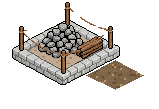
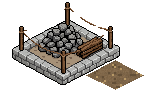
G1: no brightening for the Pixen buildings (owner's request)
Claude-Session: https://claude.ai/code/session_01Ves32FV77dAnaC74UCtajx

Changed region(s): [[0.0755, 0.0275, 0.7547, 0.7706], [0.5031, 0.1376, 0.6038, 0.2477], [0.5535, 0.2752, 0.5786, 0.3028]]

diff --git a/tools/build_pixellab_buildings.py b/tools/build_pixellab_buildings.py
@@ -2,8 +2,7 @@
 """Builds the game art of the buildings drawn by PixelLab (G1, ART_SPEC §10.12) from the raw
 PixelLab images kept in tools/pixellab_src/buildings/<id>/ (not imported by Godot).
 
-Every image goes through tools/fit_pixellab_building.py: brightened (owner's "medium"
-level), placed on its footprint with the pivot in the front corner, the production yard
+Every image goes through tools/fit_pixellab_building.py: placed on its footprint with the pivot in the front corner, the production yard
 drawn under it. A construction stage or the back of a house is an edit of its finished
 building on the same canvas, so it takes the finished building's placement (--like).
 
@@ -17,6 +16,9 @@ ROOT = os.path.dirname(os.path.dirname(os.path.abspath(__file__)))
 SRC = os.path.join(ROOT, "tools", "pixellab_src", "buildings")
 OUT = os.path.join(ROOT, "assets", "buildings")
 FIT = os.path.join(ROOT, "tools", "fit_pixellab_building.py")
+# Pixen art is as bright as the code-drawn buildings: the owner turned the brightening of the
+# trial (tools/brighten_pixellab.py, made for the darker Pro Flash) off on 2026-11-07.
+COMMON = ["--no-brighten"]
 
 # Building id -> (fit options shared by all its images, {art name: raw image it is made of}).
 # The first raw named in each group is the finished building the others line up with.
@@ -66,7 +68,7 @@ def main():
             continue
         for name, raw, extra in images:
             args = [sys.executable, FIT, os.path.join(SRC, building, raw + ".png"),
-                    os.path.join(OUT, building, name)] + opts
+                    os.path.join(OUT, building, name)] + opts + COMMON
             if "like" in extra:
                 args.append("--like=" + os.path.join(SRC, building, extra["like"] + ".png"))
             subprocess.run(args, check=True)

diff --git a/docs/ART_SPEC.md b/docs/ART_SPEC.md
@@ -479,7 +479,7 @@ Przepływ pracy dla kolejnych partii budynków z PixelLab:
 - **Narzędzie:** `create_image_pixen` (1 generacja), `no_background`, `view: high top-down`, `direction: south-east`, `detail: highly detailed`, `outline: selective outline`. Płótno: 152×152 dla budynku 2×2 (wychodzi ok. 120–130 px szerokości), 120×120 dla wąskiej chaty warsztatu (2 tylne kafle), 32–96 dla drobnych elementów. Kilka ziaren (`seed`) i wybór najlepszego.
 - **Opis:** zaczyna się od „isometric … 2:1 isometric view from above, two walls visible”, potem materiały, na końcu „warm earthy colors, no ground, no shadow”. **Drzwi:** dom „the wooden front door is in the gable wall facing the lower right”, wąski warsztat „the long side wall with the wooden door faces the lower right, the narrow gable end faces the lower left” (orientacja 0: drzwi na ścianie +x, §7). Pixen lubi dorysować płytę ziemi albo trawy: wtedy „the building stands directly on a transparent background, no ground tile, no grass, no terrain block”.
 - **Przeróbki:** `edit_image_pixen` (1 generacja) na adresie gotowego obrazka. Etap 1: „remove the whole … completely, … only a flat low grey stone foundation outline … wooden stakes with a string, a pile of logs and a stack of planks”. Etap 2: „half-built … bare roof rafters …, scaffolding and a ladder”. Tył domu: „remove the door from the gable wall on the right and fill it with the same …, add a small window there instead”. Mniejszy rozmiar elementu: przeróbka z `width`/`height` mniejszymi od wejścia (model rysuje od nowa, nie skaluje).
-- **Do gry:** surowe obrazki w `tools/pixellab_src/buildings/<id>/<nazwa>.png`, lista w `tools/build_pixellab_buildings.py`, a `tools/fit_pixellab_building.py` rozjaśnia (§10.11, poziom średni), usuwa okruchy pikseli, ustawia budynek na kratkach (środek obrazka nad środkiem obrysu, najniższy piksel 4 px nad przednim rogiem), dorysowuje podwórko warsztatu i zapisuje `<nazwa>.png` z `.json` (pivot w przednim rogu). Etap budowy i tył biorą przesunięcie gotowego budynku (`--like`), więc leżą dokładnie na nim.
+- **Do gry:** surowe obrazki w `tools/pixellab_src/buildings/<id>/<nazwa>.png`, lista w `tools/build_pixellab_buildings.py`, a `tools/fit_pixellab_building.py` usuwa okruchy pikseli (rozjaśnienie z §10.11 wyłączone dla Pixena, decyzja właściciela 2026-11-07: Pixen jest tak jasny jak budynki z kodu; włącza je usunięcie `--no-brighten` z `COMMON`), ustawia budynek na kratkach (środek obrazka nad środkiem obrysu, najniższy piksel 4 px nad przednim rogiem), dorysowuje podwórko warsztatu i zapisuje `<nazwa>.png` z `.json` (pivot w przednim rogu). Etap budowy i tył biorą przesunięcie gotowego budynku (`--like`), więc leżą dokładnie na nim.
 - **Obóz pionierów** jest złożony z osobnych elementów (`tools/compose_pixellab_camp.py`, części w `parts/`), bez własnego gruntu, w rombie 3×3.
 - **Sortowanie:** grafiki są szersze niż z kodu (okap, rekwizyty), więc `test_pixellab_building_art_sorts_correctly` sprawdza każdą z jej prawdziwym pivotem i rozmiarem, także w lustrze.
 - Nie przywracamy tych budynków przez `tools/generate_art.gd`: po nim `git checkout assets/buildings/{pioneer_camp,hut,woodcutter,quarry,fishing_hut}/` albo `python3 tools/build_pixellab_buildings.py`.
